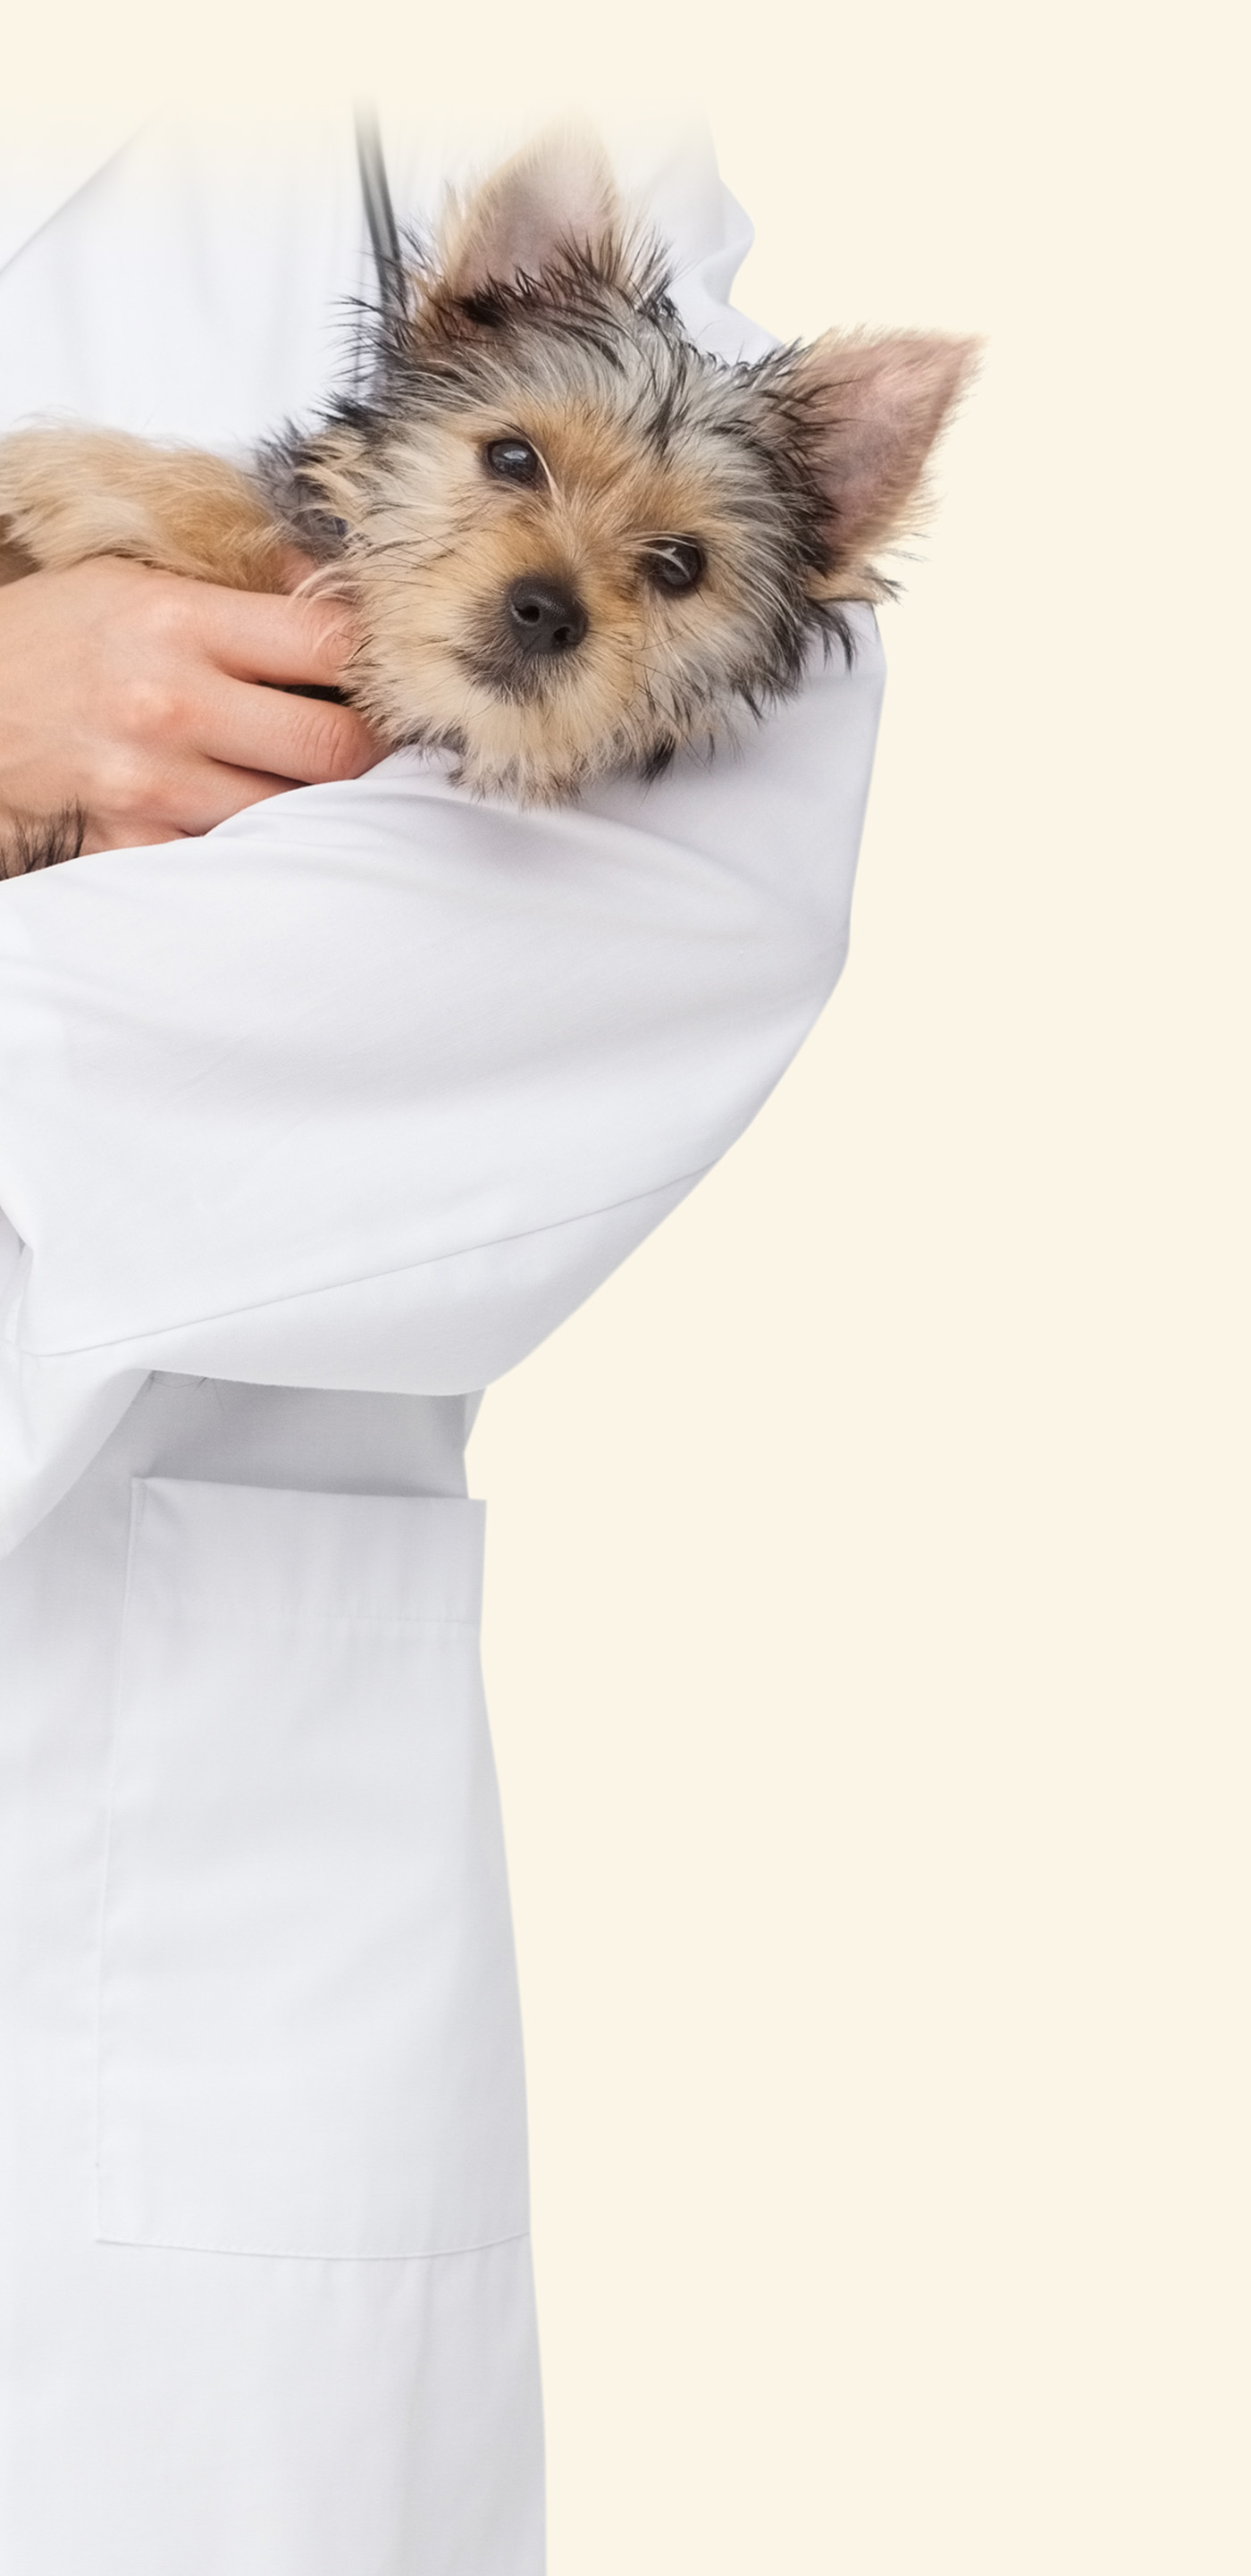
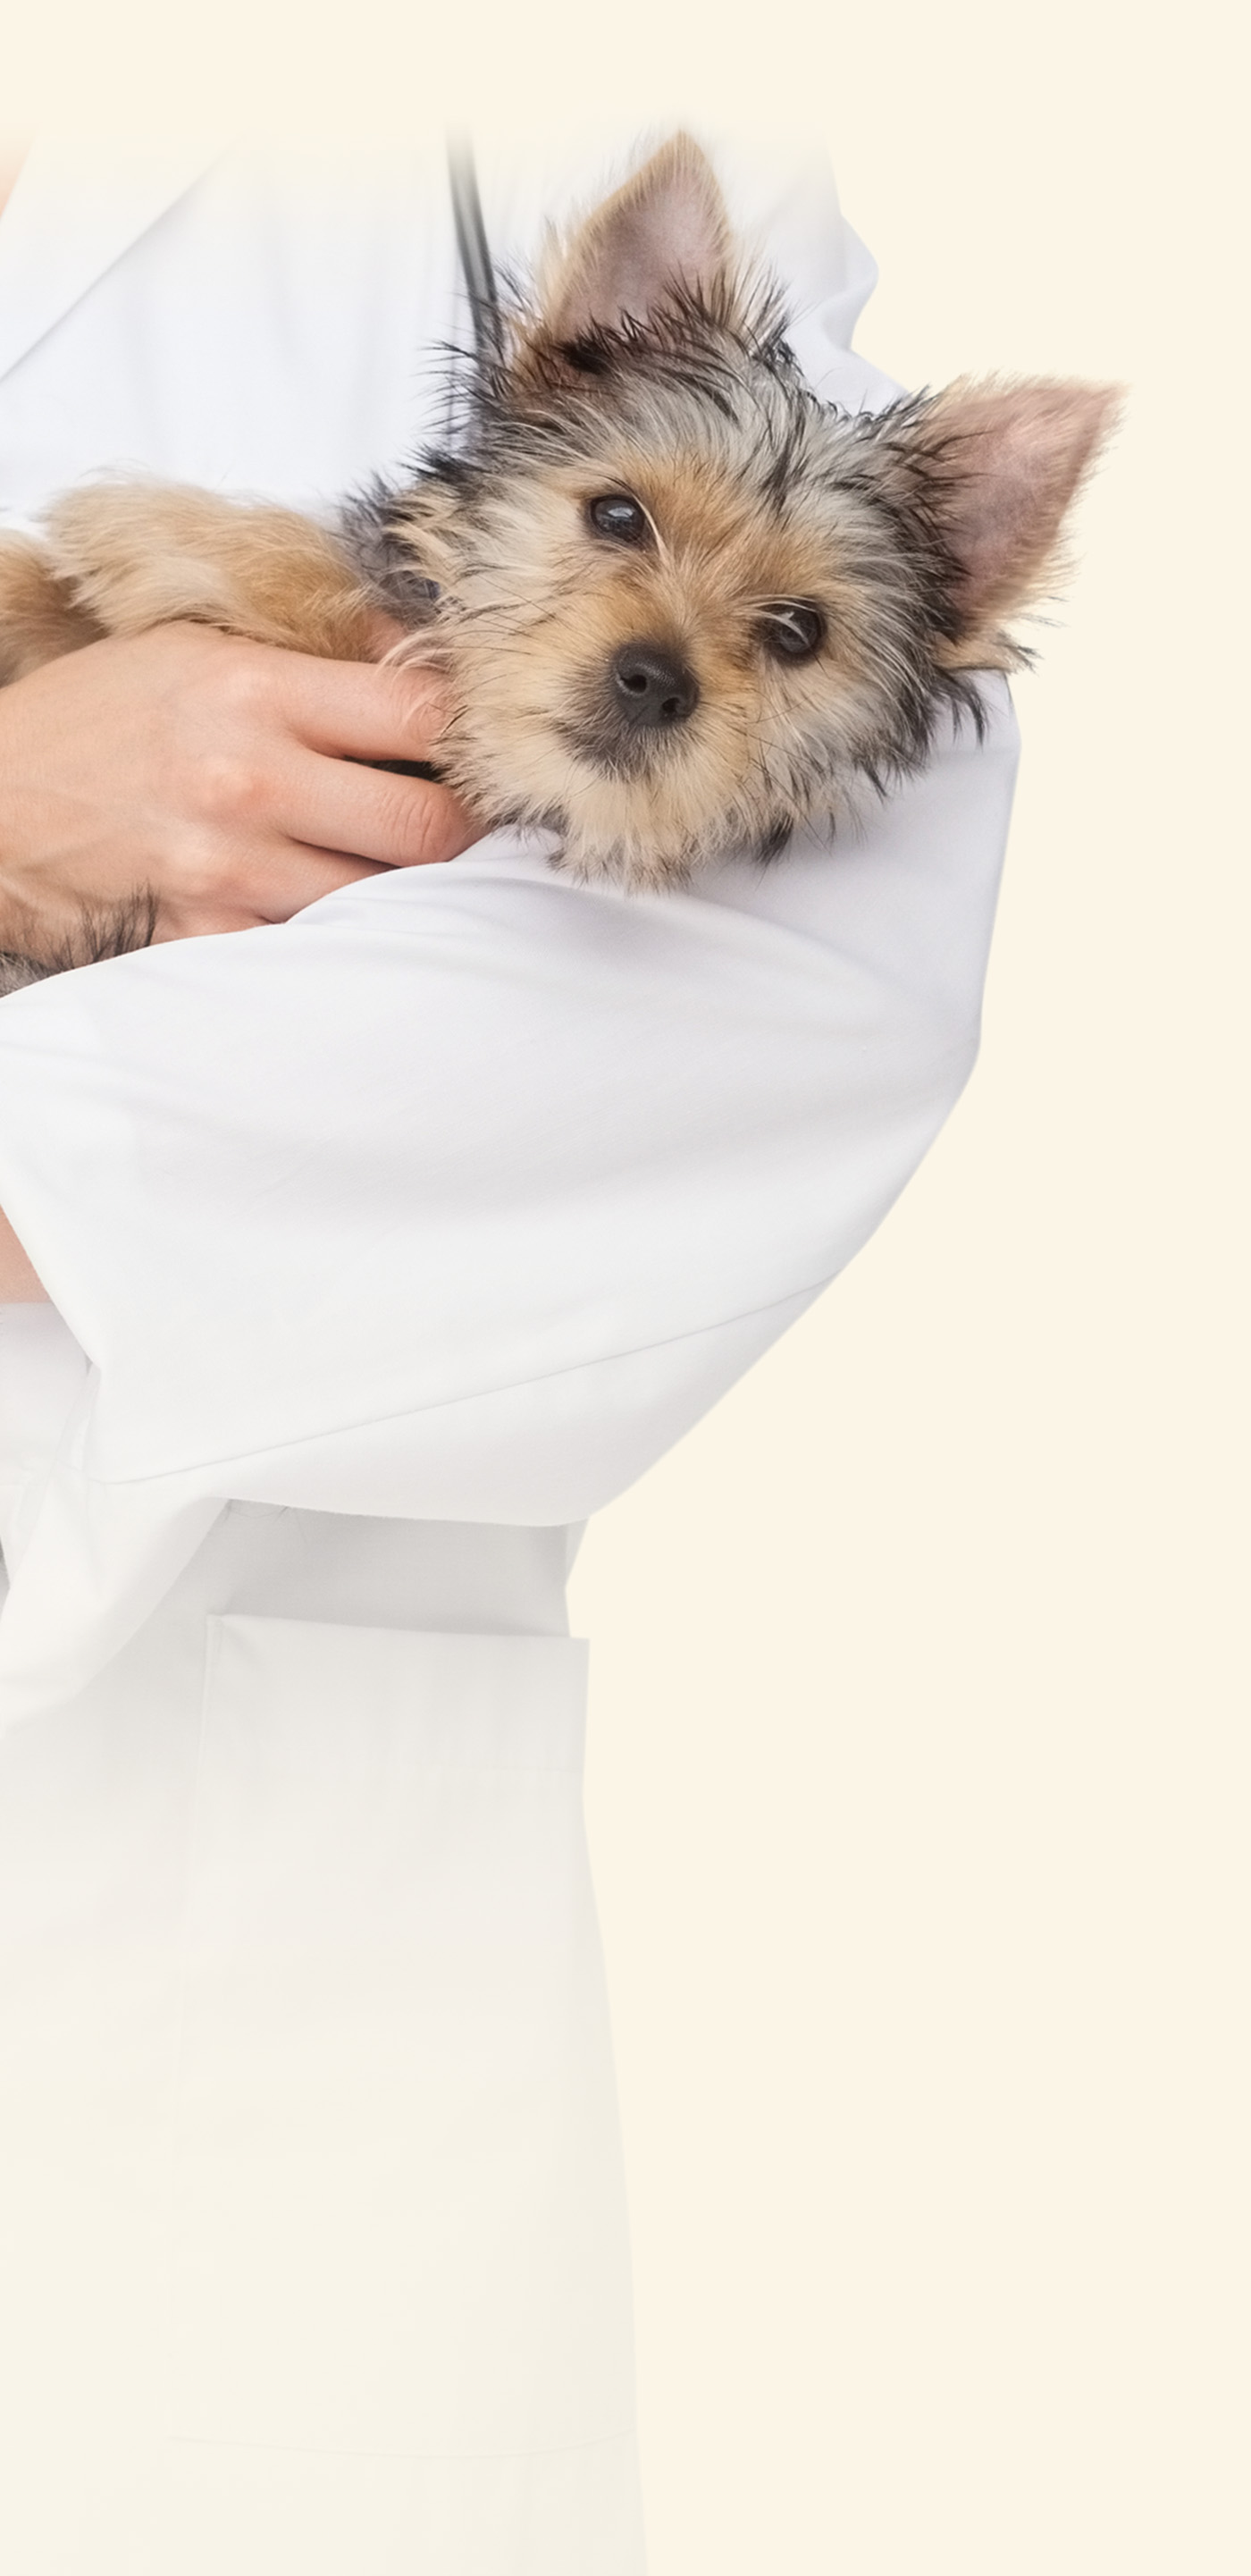
Detalles de foto y márgenes

diff --git a/estilos.css b/estilos.css
@@ -1,8 +1,3 @@
-/* ============================================================
-   MI MEJOR AMIGO — Sistema de diseño
-   Extraído del Figma (placa Inicio, Nosotros y Consulta)
-   ============================================================ */
-
 @import url('https://fonts.googleapis.com/css2?family=Inter:wght@400;500;700;900&display=swap');
 
 :root {
@@ -53,11 +48,11 @@ body {
   display: flex;
   align-items: center;
   justify-content: space-between;
-  padding: 40px 0 24px;
+  padding: 40px 0px 24px;
 }
 .logo {
-  font-weight: 900;
-  font-size: 17px;
+  font-weight: 800;
+  font-size: 19px;
   letter-spacing: -0.4px;
   text-transform: uppercase;
   color: var(--tinta);
@@ -86,7 +81,7 @@ body {
 .titulo {
   font-weight: 900;
   text-transform: uppercase;
-  font-size: clamp(46px, 16vw, 62px);
+  font-size: clamp(46px, 16vw, 55px);
   line-height: 0.98;
   letter-spacing: -1px;
   margin: 8px 0 28px;
@@ -113,7 +108,7 @@ body {
 /* ---------- Tarjetas ---------- */
 .card {
   border-radius: var(--radio);
-  padding: 24px;
+  padding: 27px;
 }
 .card--azul     { background: var(--azul); }
 .card--amarillo { background: var(--amarillo); }
@@ -145,11 +140,12 @@ body {
   flex-direction: column;
   justify-content: space-between;
   font-weight: 500;
-  font-size: 20px;
+  font-size: 18px;
 }
 .grilla .flecha {
   align-self: flex-end;
-  font-size: 26px;
+  font-weight: 500;
+  font-size: 40px;
   line-height: 1;
 }
 
@@ -340,7 +336,7 @@ select.campo {
   flex-direction: column;
   padding-right: 48px;   
   padding-bottom: 50px;  
-  background-image: url('perro-con-vete_01.jpeg');
+  background-image: url('perro-con-vete_01.jpg');
   background-repeat: no-repeat;
   background-position: center;
   background-size: cover;   

diff --git a/cabecera.php b/cabecera.php
@@ -23,12 +23,12 @@ $inicio = $inicio ?? 'portal.php';
 
       <nav class="nav-menu" id="nav-enlaces">
         <ul>
+          <li><a href="login.php">Ingresar</a></li>
           <li><a href="index.php">Inicio</a></li>
           <li><a href="consulta.php">Agendar una consulta</a></li>
           <li><a href="nosotros.php">Nosotros</a></li>
           <li><a href="especialidades.php">Especialidades y Staff</a></li>
           <li><a href="contacto.php">Contacto y Emergencias</a></li>
-          <li><a href="login.php">Ingresar</a></li>
         </ul>
       </nav>
     </header>

diff --git a/index.php b/index.php
@@ -8,7 +8,7 @@ include 'cabecera.php';
 ?>
 
     <div class="home__contenido">
-      <h1 class="titulo" style="margin:24px 0 44px">Lo mejor<br>para ellos.</h1>
+      <h1 class="titulo" style="margin:24px 0 20px">Lo mejor<br>para ellos.</h1>
 
       <div class="grilla">
         <a class="card card--azul" href="consulta.php">